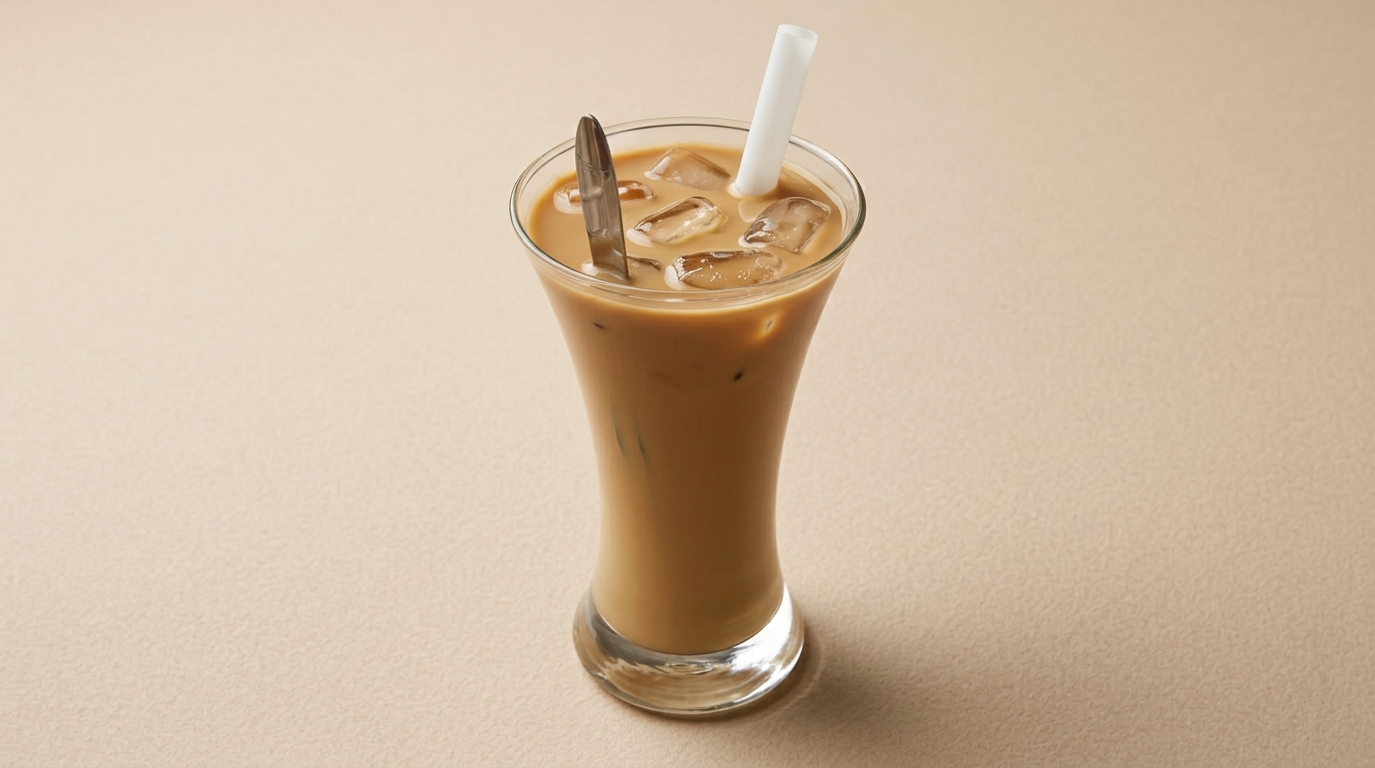
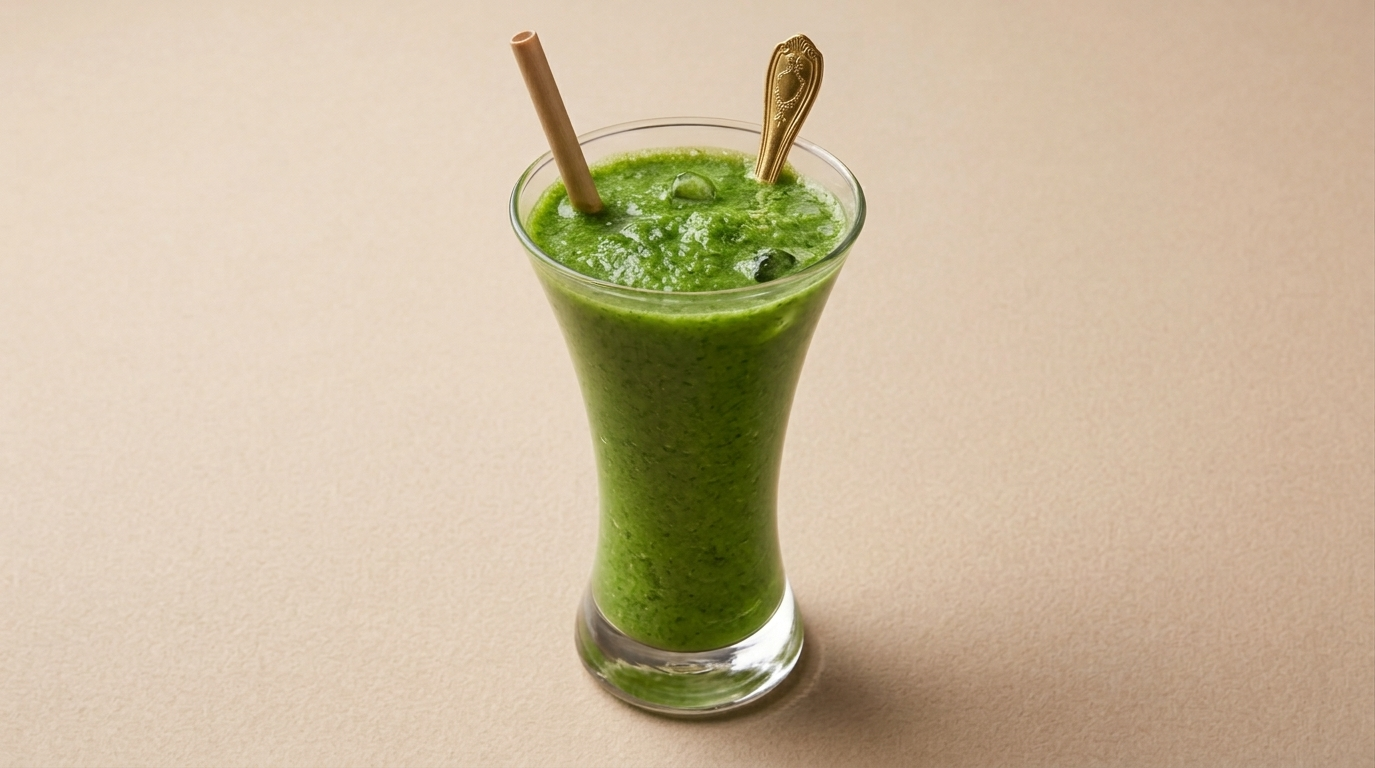
google avis

Changed region(s): [[0.3665, 0.0312, 0.6415, 0.9375]]

diff --git a/src/routes/carte.tsx b/src/routes/carte.tsx
@@ -1,6 +1,6 @@
 import { createFileRoute } from "@tanstack/react-router";
 import { useState } from "react";
-import { Ornament, SectionHead, useReveal, Arch } from "@/components/brand";
+import { Ornament, SectionHead, useReveal, Arch, BUSINESS } from "@/components/brand";
 import catBrioches from "@/assets/cat-brioches.png";
 import catPancakesSales from "@/assets/cat-pancakes-sales.png";
 import catPancakesSucres from "@/assets/cat-pancakes-sucres.png";
@@ -199,6 +199,14 @@ function CartePage() {
         >
           <p>Chaque plat est une petite sculpture, composée sur place avec des produits choisis chaque matin.</p>
         </SectionHead>
+        <a
+          href={BUSINESS.googleReviewUrl}
+          target="_blank"
+          rel="noreferrer"
+          className="btn btn-outline mt-8 inline-flex"
+        >
+          Laisser un avis Google
+        </a>
       </section>
 
       <section className="mx-auto max-w-7xl px-5 sm:px-8 py-16">
